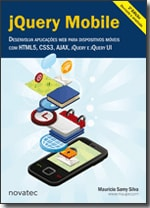
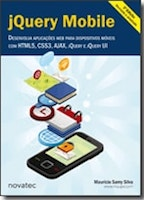
ajustando as imagens das bibliografias

diff --git a/README.md b/README.md
@@ -58,12 +58,13 @@ Toda a comunicação será realizada usando o [![Slack Status](https://ifpb.hero
 
 ### Bibliografia Básica
 
-[![Use a cabeça JS](assets/books/use-a-cabeca-js.jpg)](http://www.altabooks.com.br/use-a-cabeca-javascript.html) [![Javascript: Guia do Programador](assets/books/js-guia-programador.png)](https://novatec.com.br/livros/javascript-guia-programador/) [![Só Javascript](assets/books/so-javascript.jpg)](https://books.google.com.br/books/about/SO_JAVASCRIPT_TUDO_O_QUE_VOCE_PRECISA_SA.html)
+[![Use a cabeça JS](assets/books/use-a-cabeca-js.jpg)](http://www.altabooks.com.br/use-a-cabeca-javascript.html) [![Javascript: Guia do Programador](assets/books/javascript-guia-programador.jpg)](https://novatec.com.br/livros/javascript-guia-programador/) [![Só Javascript](assets/books/so-javascript.jpg)](https://books.google.com.br/books/about/SO_JAVASCRIPT_TUDO_O_QUE_VOCE_PRECISA_SA.html)
 
 ### Bibliografia Complementar
 
 [![Desenvolvimento de Software II](assets/books/desenvolvimento-software.jpg)](https://loja.grupoa.com.br/livros/informacao-e-comunicacao/desenvolvimento-de-software-ii/9788582601952) [![
 Ajax com jQuery](assets/books/ajax-jquery.jpg)](https://www.novatec.com.br/livros/ajaxjquery/) [![jQuery - A Biblioteca do Programador JavaScript](assets/books/jquery.jpg)](https://novatec.com.br/livros/jquery-3ed/) [![jQuery Mobile](assets/books/jquery-mobile.jpg)](https://novatec.com.br/livros/jquery-mobile-2ed/) [![Javascript guia definitivo](assets/books/js-guia-definitivo.jpg)](http://shop.oreilly.com/product/9780596805531.do)
  [![Eloquent JavaScript](assets/books/eloquent-js.png)](http://eloquentjavascript.net/)
+ <!-- https://www.livrariacultura.com.br/p/livros/informatica-e-tecnologia/programacao/javascript-avancado-3116907 -->
 
 E para completar ainda mais a listagem existe estes [exemplares](http://jsbooks.revolunet.com/) como outros indicações.
